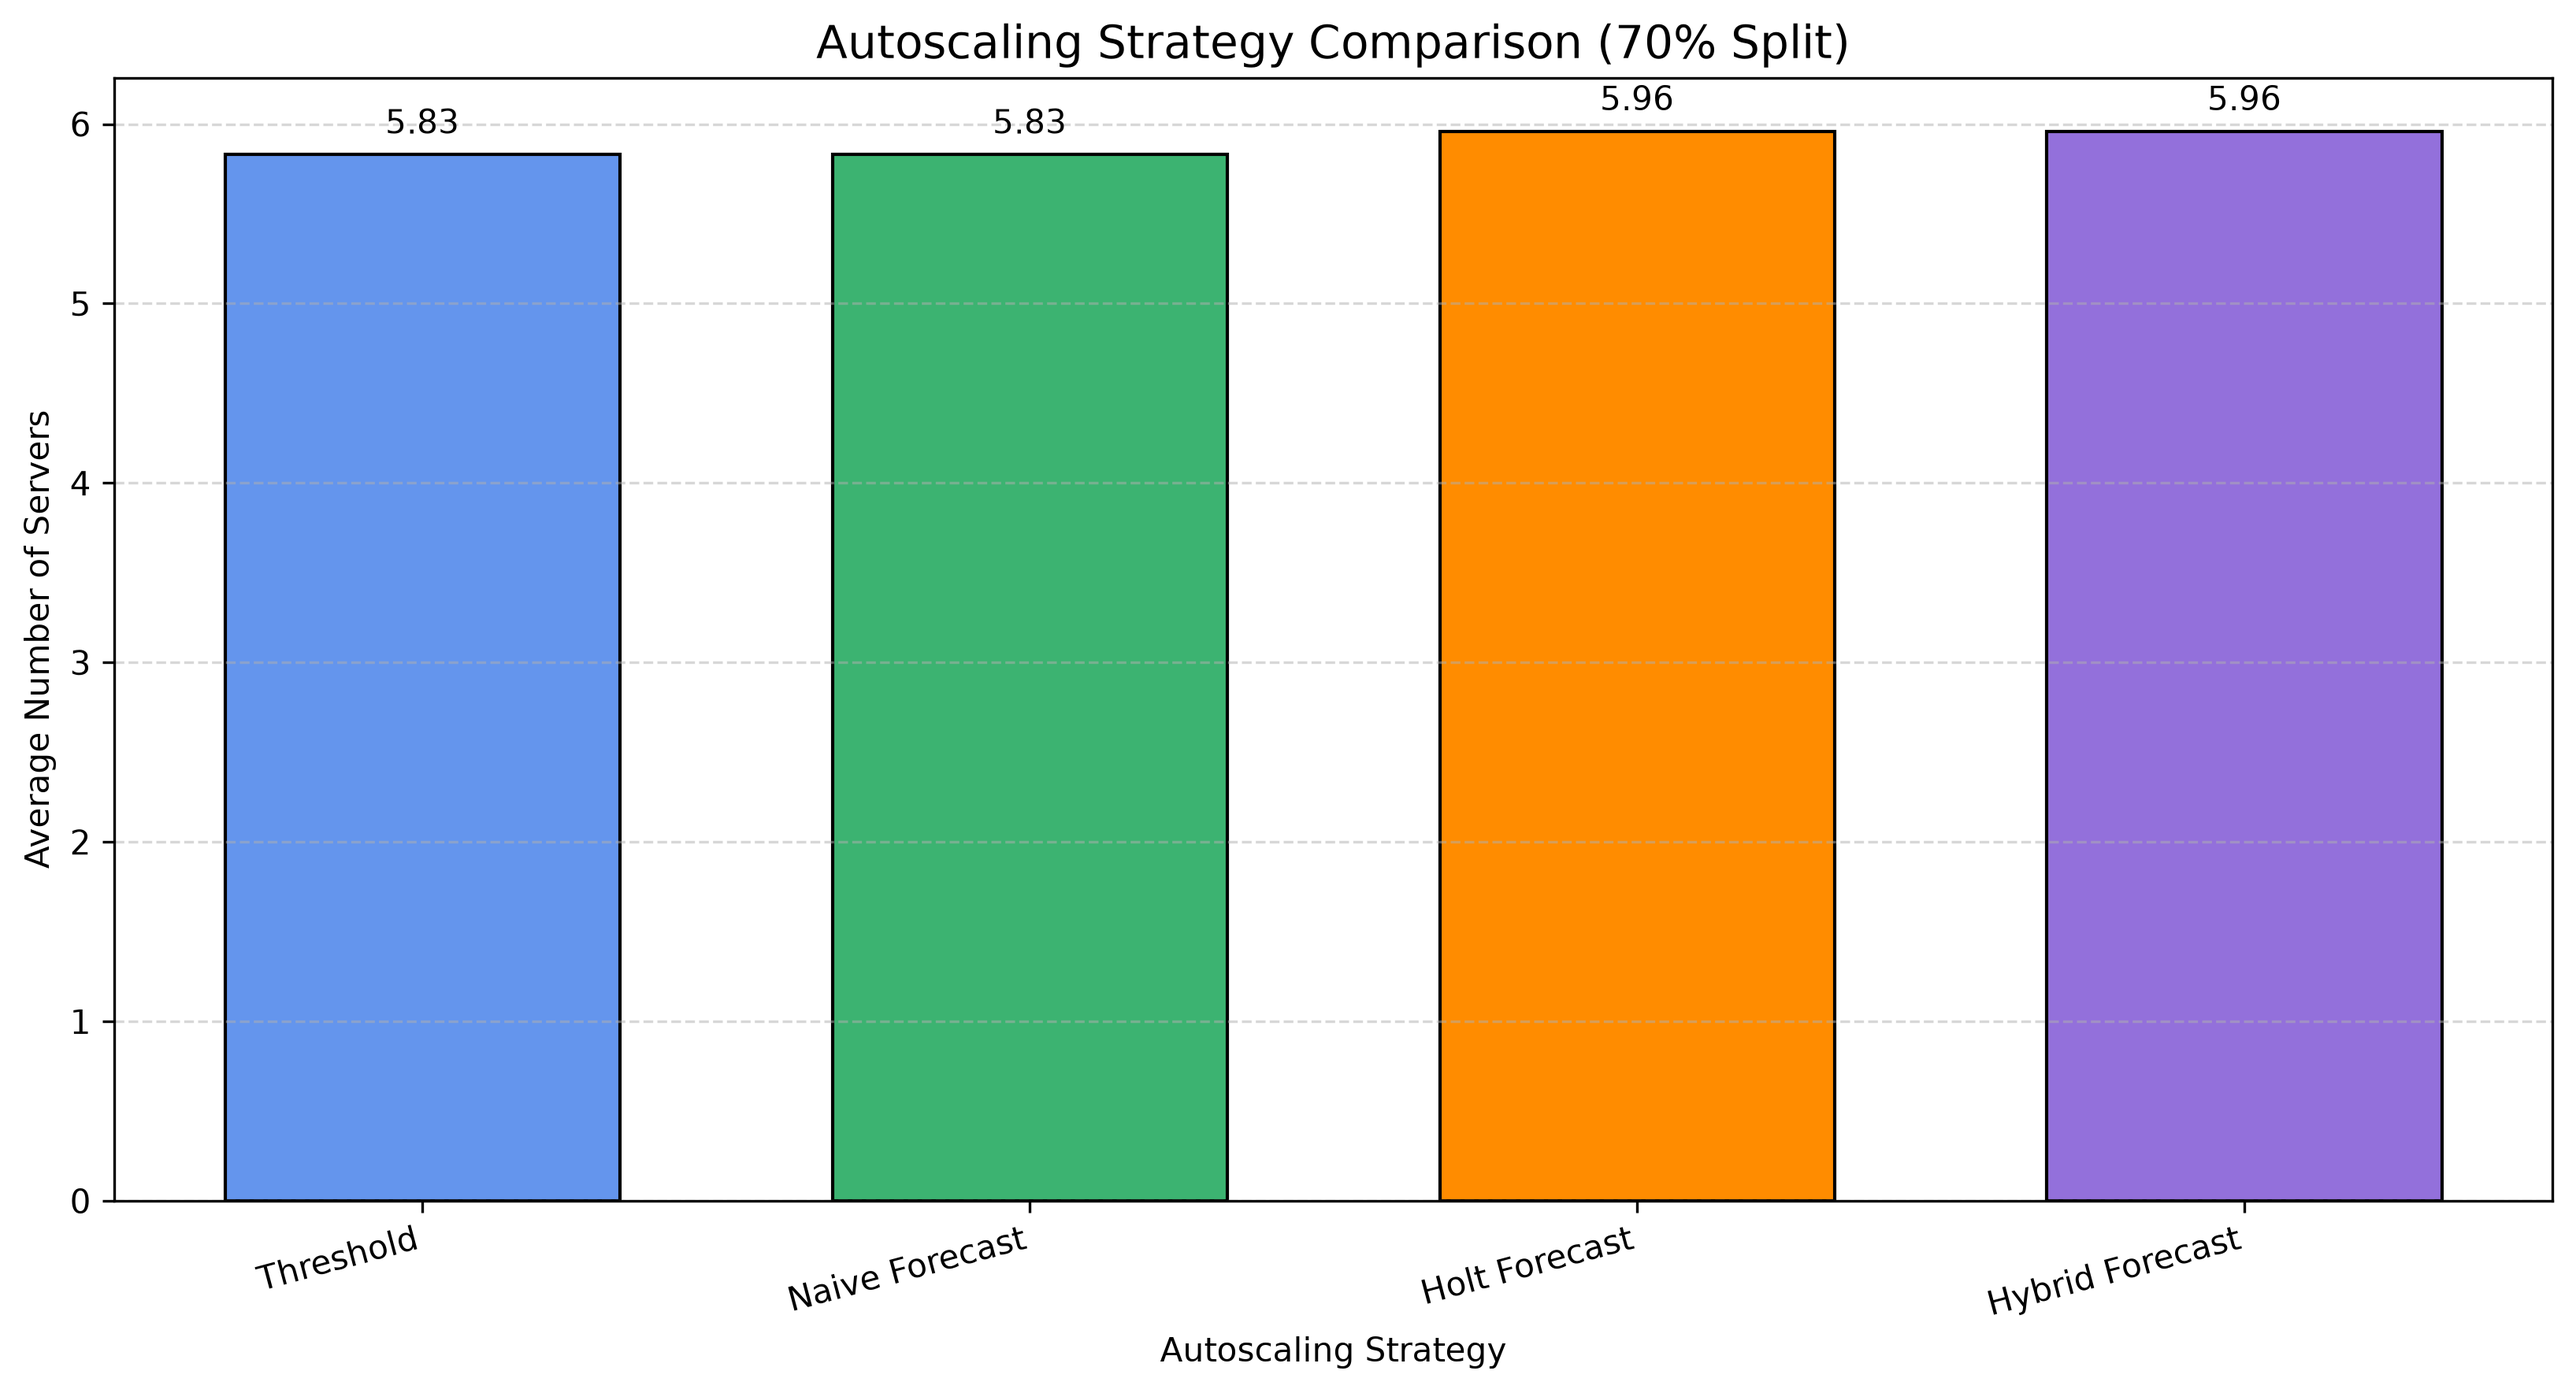
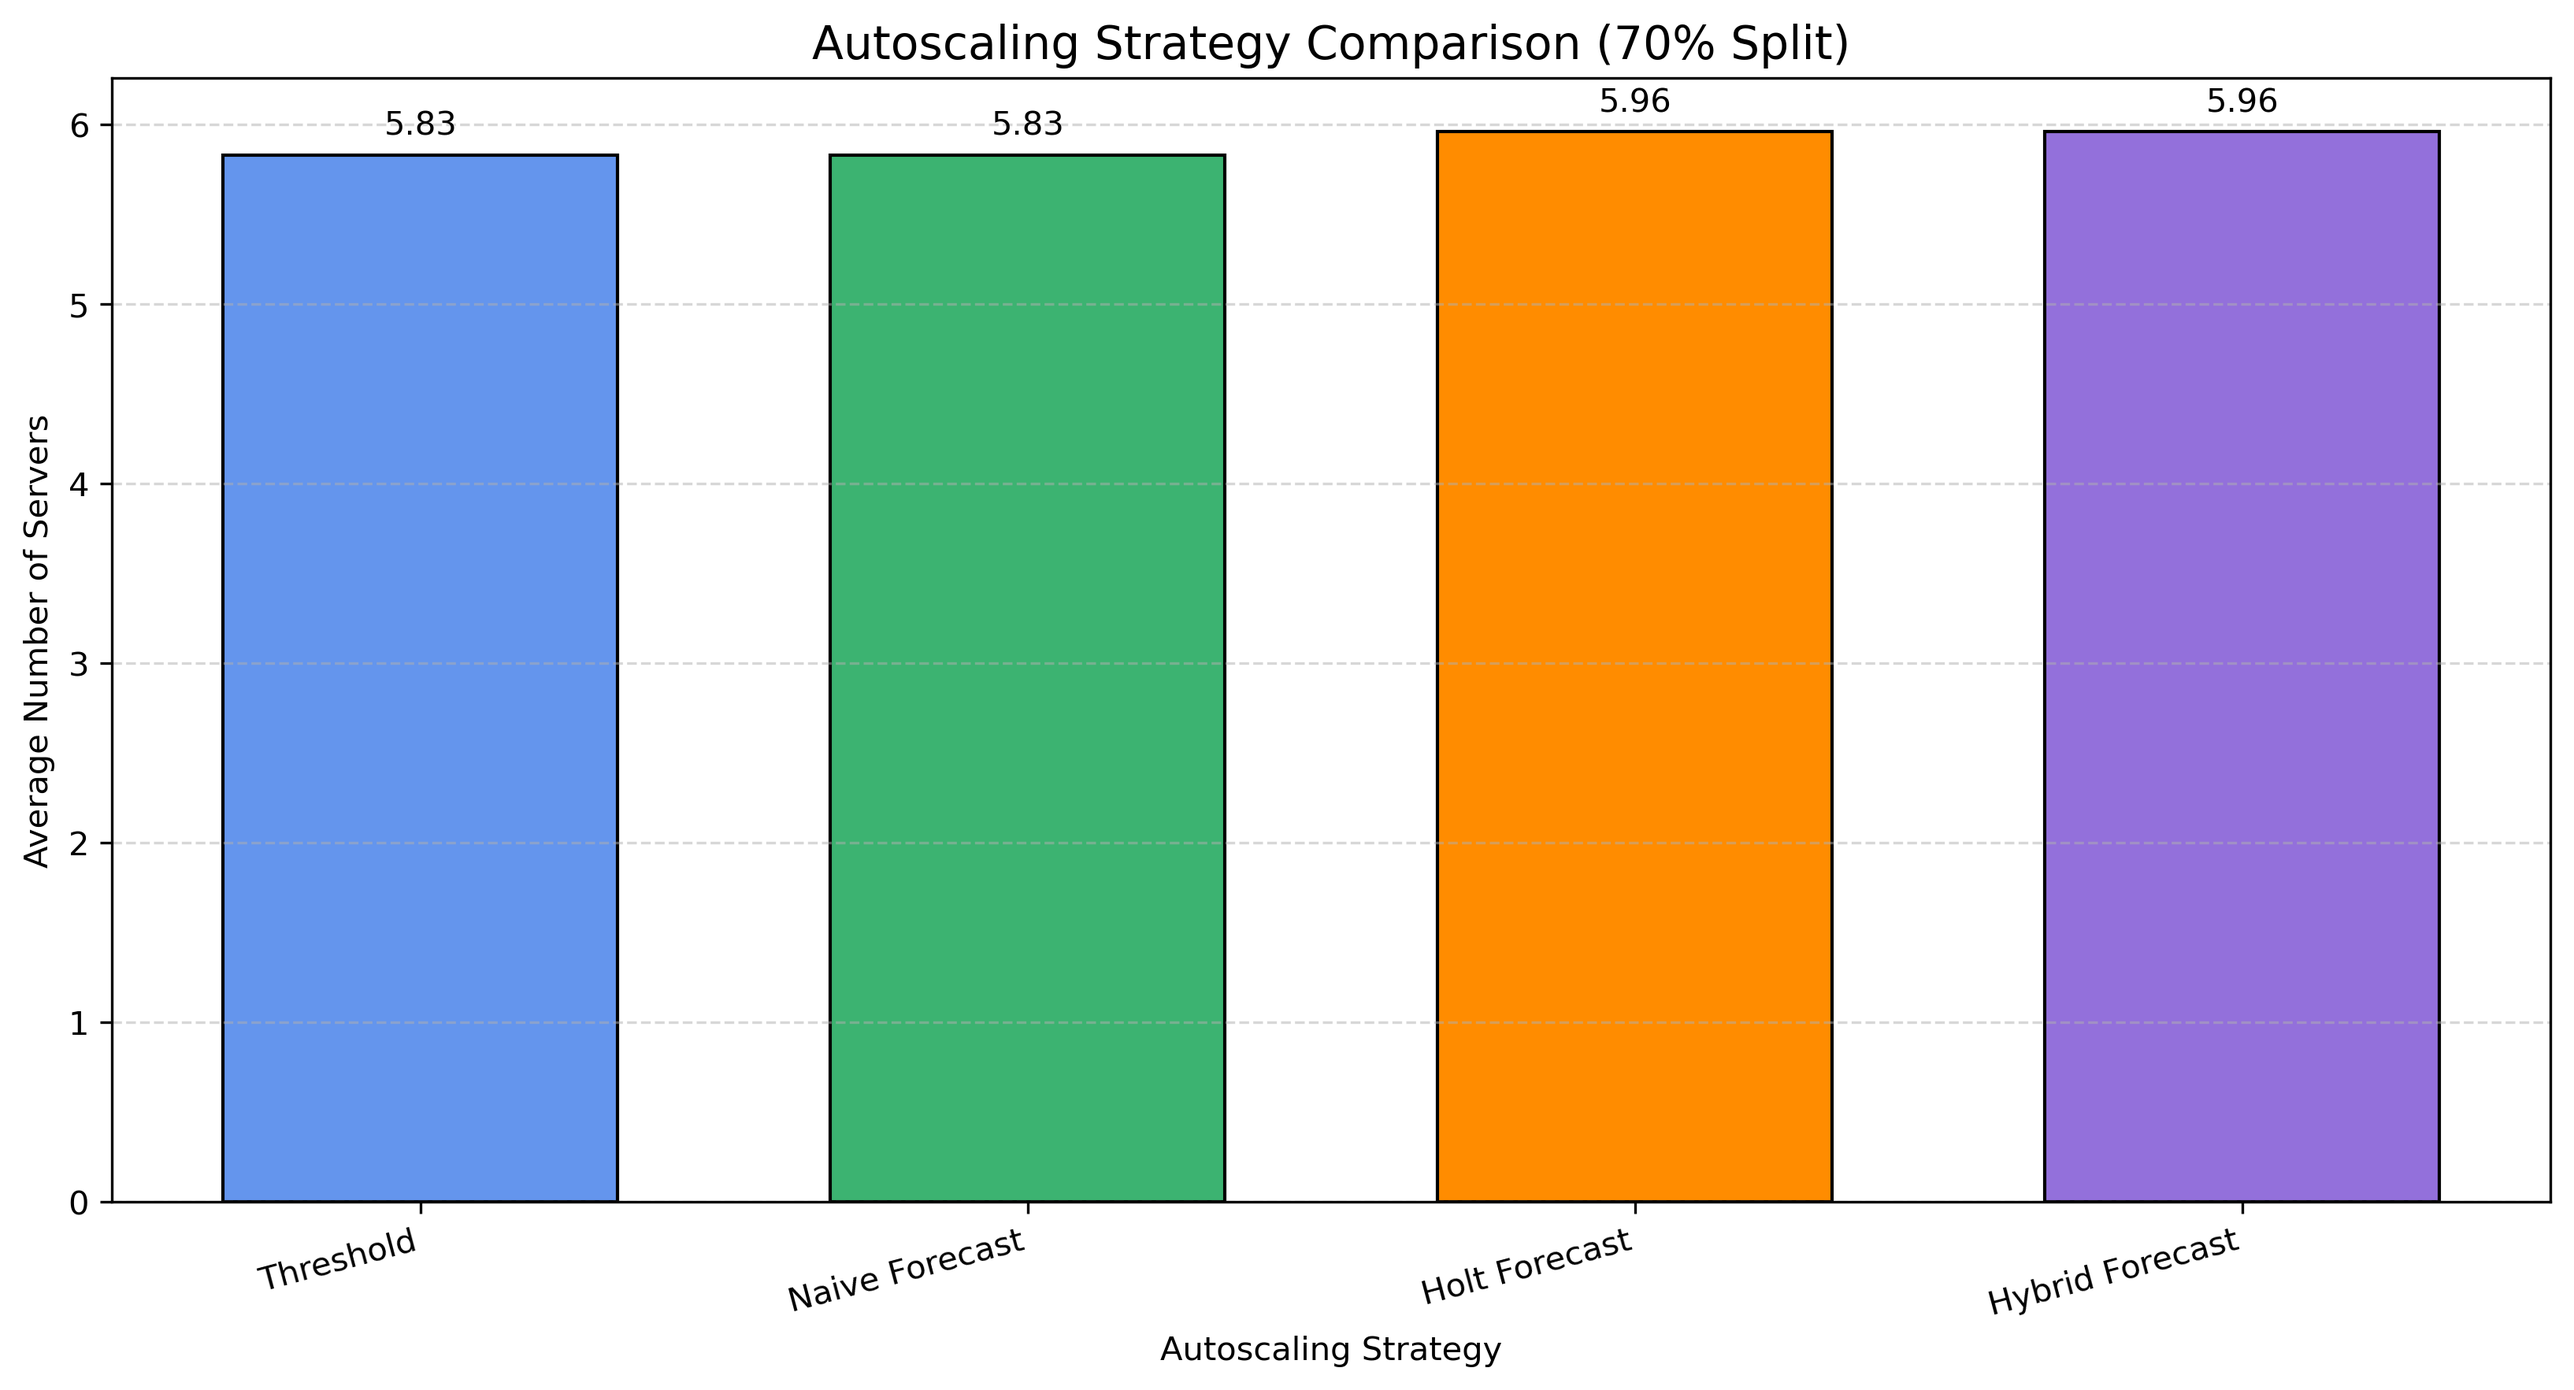
"running the pipeline with the new workload data and updated forecast model"

diff --git a/src/pipeline.py b/src/pipeline.py
@@ -1,3 +1,4 @@
+import argparse
 import ssl
 import certifi
 import gzip
@@ -32,6 +33,13 @@ DATA_URL = (
 
 INTERVAL_SECONDS = 300
 MAX_SERVERS = 100
+
+# Experiment settings. The defaults reproduce the main results in the report.
+# They can be overridden from the command line, for example:
+#   python src/pipeline.py --target 0.85 --splits 0.85 0.75 0.80
+TARGET_UTILIZATION = 0.70      # servers are sized so demand uses this share of capacity
+CAPACITY_DIVISOR = 4           # one server = (90th percentile of training demand) / this
+SPLIT_RATIOS = [0.70, 0.75, 0.80]
 REPEATED_RUNS = 5  # deterministic reruns for reproducibility checking
 
 
@@ -326,7 +334,7 @@ def simulate_autoscaling(
             raise ValueError("Unknown autoscaling strategy")
 
         required_servers = int(
-            np.ceil(expected_next_demand / (server_capacity * 0.70))
+            np.ceil(expected_next_demand / (server_capacity * TARGET_UTILIZATION))
         )
         servers = max(1, min(required_servers, MAX_SERVERS))
 
@@ -349,7 +357,7 @@ def run_experiments(workload):
     their standard deviation is expected to be zero.
     """
 
-    split_ratios = [0.70, 0.75, 0.80]
+    split_ratios = list(SPLIT_RATIOS)
     strategies = [
         "Threshold", "Naive Forecast", "Holt Forecast", "Hybrid Forecast"
     ]
@@ -361,7 +369,7 @@ def run_experiments(workload):
     first_split_data = None
 
     for split in split_ratios:
-        split_percent = int(split * 100)
+        split_percent = int(round(split * 100))
         print(f"\nRunning experiment with {split_percent}% training data...")
 
         split_index = int(len(workload) * split)
@@ -380,9 +388,9 @@ def run_experiments(workload):
         
         }
         # Capacity calibration uses training data only.
-        server_capacity = max(float(train.quantile(0.90)) / 4, 0.01)
+        server_capacity = max(float(train.quantile(0.90)) / CAPACITY_DIVISOR, 0.01)
         initial_servers = int(np.ceil(
-            float(train.iloc[-1]) / (server_capacity * 0.70)
+            float(train.iloc[-1]) / (server_capacity * TARGET_UTILIZATION)
         ))
         initial_servers = max(1, min(initial_servers, MAX_SERVERS))
 
@@ -592,8 +600,9 @@ def generate_graphs(workload, forecast_df, scaling_df):
     # 2. FORECAST COMPARISON GRAPH
     # -----------------------------------
 
+    first_percent = int(forecast_df["Training_Percentage"].iloc[0])
     first_split = forecast_df[
-        forecast_df["Training_Percentage"] == 70
+        forecast_df["Training_Percentage"] == first_percent
     ]
 
     plt.figure(figsize=(8, 5))
@@ -609,7 +618,9 @@ def generate_graphs(workload, forecast_df, scaling_df):
         edgecolor="black"
     )
 
-    plt.title("Forecast Model RMSE Comparison (70% Split)", fontsize=14)
+    plt.title(
+        f"Forecast Model RMSE Comparison ({first_percent}% Split)", fontsize=14
+    )
     plt.xlabel("Forecasting Model")
     plt.ylabel("RMSE")
 
@@ -631,7 +642,7 @@ def generate_graphs(workload, forecast_df, scaling_df):
     # -----------------------------------
 
     first_scaling = scaling_df[
-        scaling_df["Training_Percentage"] == 70
+        scaling_df["Training_Percentage"] == first_percent
     ]
 
     plt.figure(figsize=(11, 6))
@@ -652,7 +663,9 @@ def generate_graphs(workload, forecast_df, scaling_df):
         edgecolor="black"
     )
 
-    plt.title("Autoscaling Strategy Comparison (70% Split)", fontsize=14)
+    plt.title(
+        f"Autoscaling Strategy Comparison ({first_percent}% Split)", fontsize=14
+    )
     plt.xlabel("Autoscaling Strategy")
     plt.ylabel("Average Number of Servers")
 
@@ -679,7 +692,70 @@ def generate_graphs(workload, forecast_df, scaling_df):
 # 9. MAIN FUNCTION
 # --------------------------------------------------
 
+def parse_arguments():
+    parser = argparse.ArgumentParser(
+        description="Workload forecasting and autoscaling experiments."
+    )
+    parser.add_argument(
+        "--target", type=float, default=TARGET_UTILIZATION,
+        help="target utilization used to size servers (default 0.70)"
+    )
+    parser.add_argument(
+        "--divisor", type=float, default=CAPACITY_DIVISOR,
+        help="server capacity = training P90 demand / divisor (default 4)"
+    )
+    parser.add_argument(
+        "--splits", type=float, nargs="+", default=SPLIT_RATIOS,
+        help="training fractions, for example 0.70 0.75 0.80"
+    )
+    parser.add_argument(
+        "--out", default=None,
+        help="results folder name (default: results, or results_sensitivity "
+             "when any setting differs from the defaults)"
+    )
+    args = parser.parse_args()
+
+    if not 0 < args.target <= 1:
+        parser.error("--target must be between 0 and 1")
+    if args.divisor <= 0:
+        parser.error("--divisor must be positive")
+    if any(not 0 < ratio < 1 for ratio in args.splits):
+        parser.error("--splits values must be between 0 and 1")
+
+    return args
+
+
+def apply_settings(args):
+    """Apply command-line settings and choose the results folder."""
+    global TARGET_UTILIZATION, CAPACITY_DIVISOR, SPLIT_RATIOS, RESULTS_DIR
+
+    TARGET_UTILIZATION = args.target
+    CAPACITY_DIVISOR = args.divisor
+    SPLIT_RATIOS = list(args.splits)
+
+    is_default = (
+        TARGET_UTILIZATION == 0.70
+        and CAPACITY_DIVISOR == 4
+        and SPLIT_RATIOS == [0.70, 0.75, 0.80]
+    )
+
+    if args.out:
+        RESULTS_DIR = ROOT / args.out
+    elif not is_default:
+        RESULTS_DIR = ROOT / "results_sensitivity"
+
+    RESULTS_DIR.mkdir(exist_ok=True)
+
+    print(
+        f"Settings: target={TARGET_UTILIZATION}, "
+        f"capacity divisor={CAPACITY_DIVISOR}, splits={SPLIT_RATIOS}"
+    )
+    print(f"Results folder: {RESULTS_DIR.name}/")
+
+
 def main():
+
+    apply_settings(parse_arguments())
 
     print("=" * 55)
     print(" WORKLOAD FORECASTING FOR AUTOSCALING")
